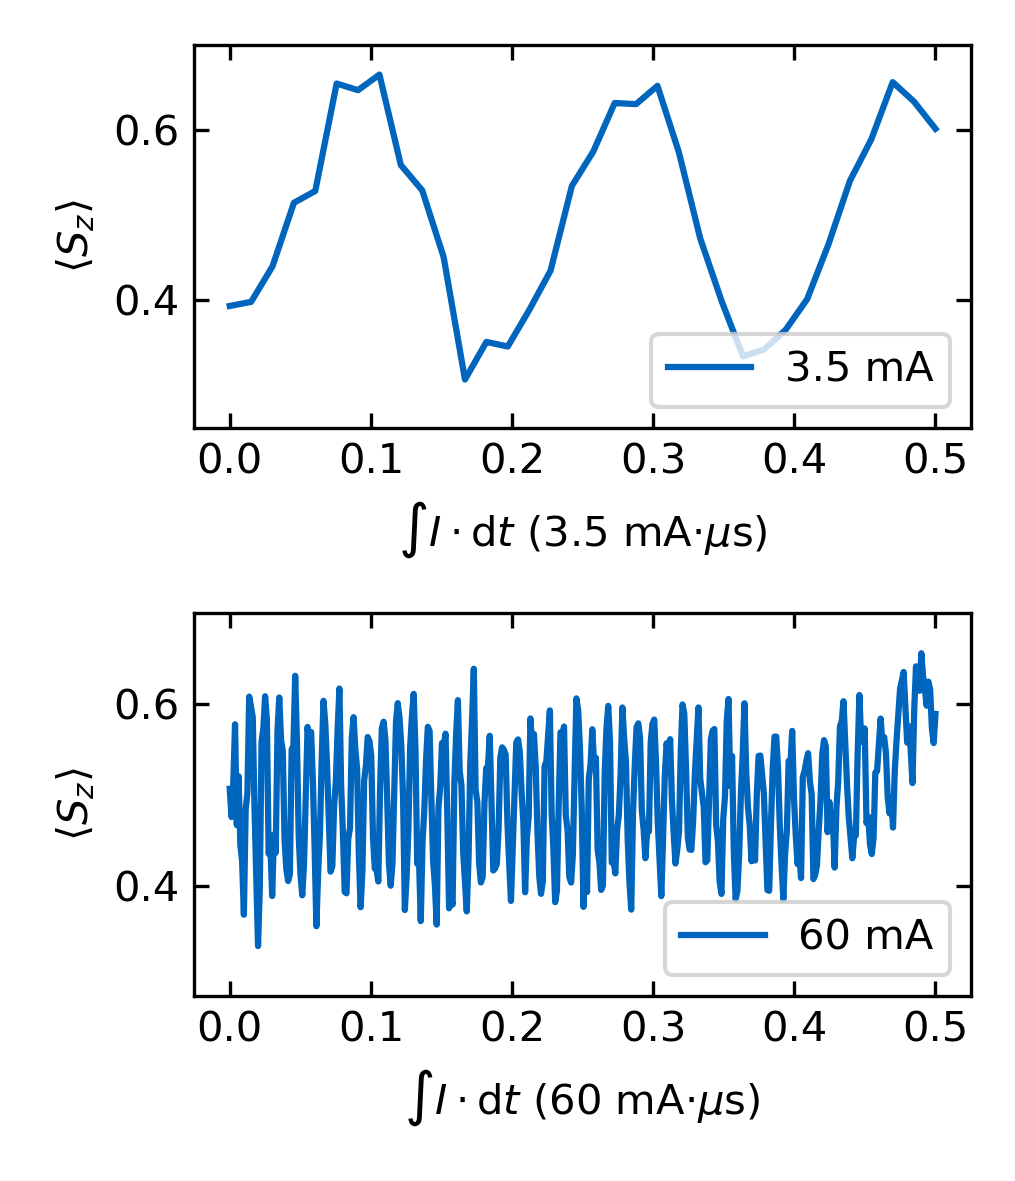
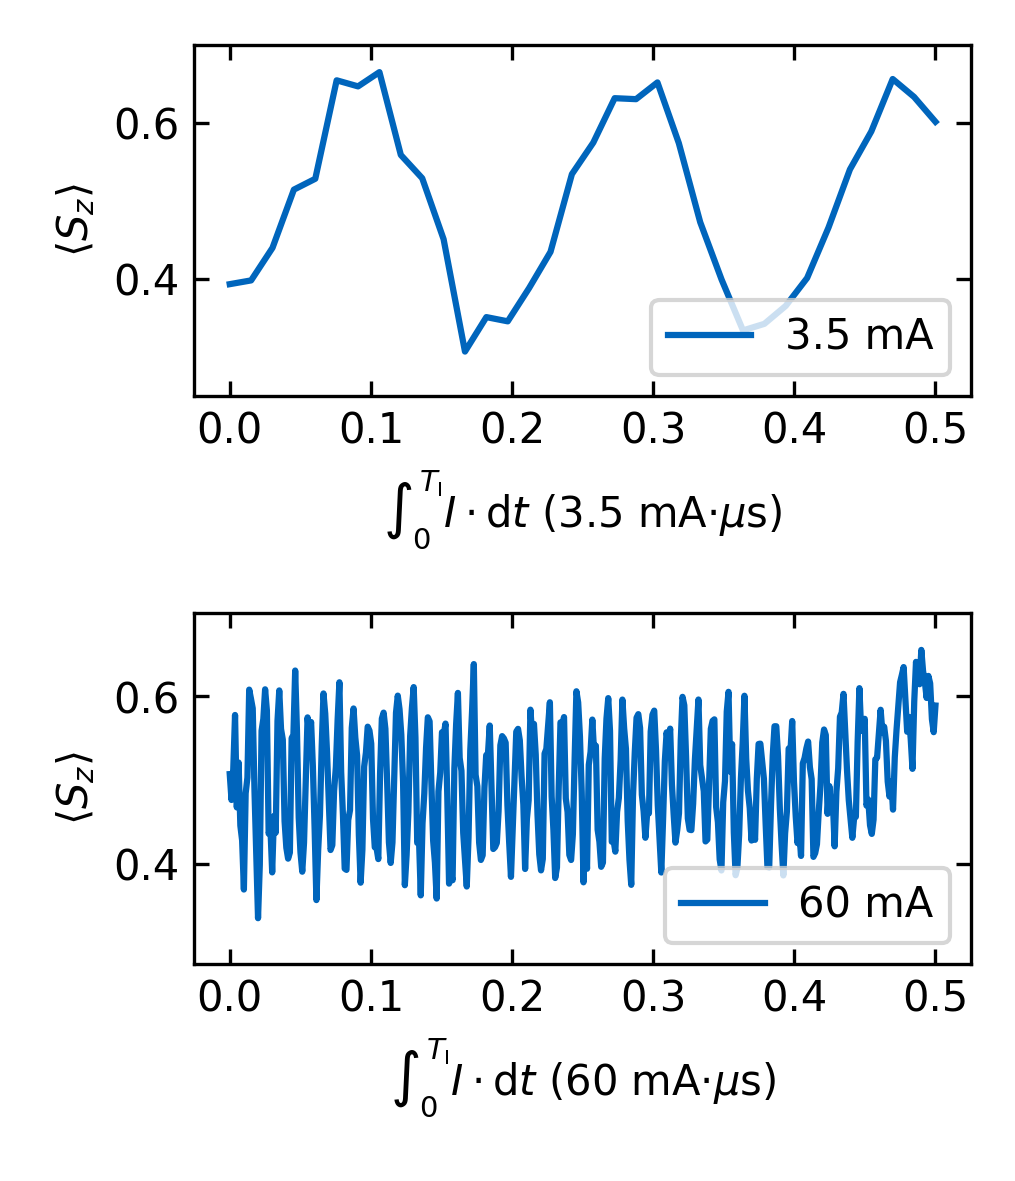
adds integral boundaries to phi oscilation

diff --git a/Images/QuantumFeedForwardPaper/phi_oscillation.py b/Images/QuantumFeedForwardPaper/phi_oscillation.py
@@ -16,10 +16,10 @@ def tum_color(index):
 
 
 def main():
-    slow_oscillation_path = '//nas.ads.mwn.de/TUZE/wsi/e24/ReinhardLab/data_setup_nv1/181029_d36_current_echo_First/' \
-                            '002_current_echo'
-    fast_oscillation_path = '//nas.ads.mwn.de/TUZE/wsi/e24/ReinhardLab/data_setup_nv1/181220_036_phase_oscillation_deer/' \
-                            '002_phase_oscillation_63mA'
+    slow_oscillation_path = '//filelrz.wsi.tum.de/tuze/wsi/e24/ReinhardLab/data_setup_nv1/' \
+                            '181029_d36_current_echo_First/002_current_echo'
+    fast_oscillation_path = '//filelrz.wsi.tum.de/tuze/wsi/e24/ReinhardLab/data_setup_nv1/' \
+                            '181220_036_phase_oscillation_deer/002_phase_oscillation_63mA'
 
     slow_bins, slow_zs = load_measurement(slow_oscillation_path)
     fast_bins, fast_zs = load_measurement(fast_oscillation_path)
@@ -56,7 +56,7 @@ def main():
              label='3.5 mA')
     ax1.set_ylim(0.25, 0.7)
     ax1.set_ylabel(r'$\left\langle S_z \right\rangle$')
-    ax1.set_xlabel(r'$\int I \cdot \mathrm{d}t$' + r' (3.5 mA$\cdot \mu$s)')
+    ax1.set_xlabel(r'$\int_0^{T_\mathrm{I}} I \cdot \mathrm{d}t$' + r' (3.5 mA$\cdot \mu$s)')
     ax1.legend(loc='lower right')
 
     fast_start = None
@@ -67,7 +67,7 @@ def main():
     ax2.tick_params('y')
     ax2.set_ylim(0.28, 0.7)
     ax2.set_ylabel(r'$\left\langle S_z \right\rangle$')
-    ax2.set_xlabel(r'$\int I \cdot \mathrm{d}t$' + r' (60 mA$\cdot \mu$s)')
+    ax2.set_xlabel(r'$\int_0^{T_\mathrm{I}} I \cdot \mathrm{d}t$' + r' (60 mA$\cdot \mu$s)')
     ax2.legend(loc='lower right')
     fig.tight_layout()
     plt.savefig('phase_oscillation.png', dpi=300)
